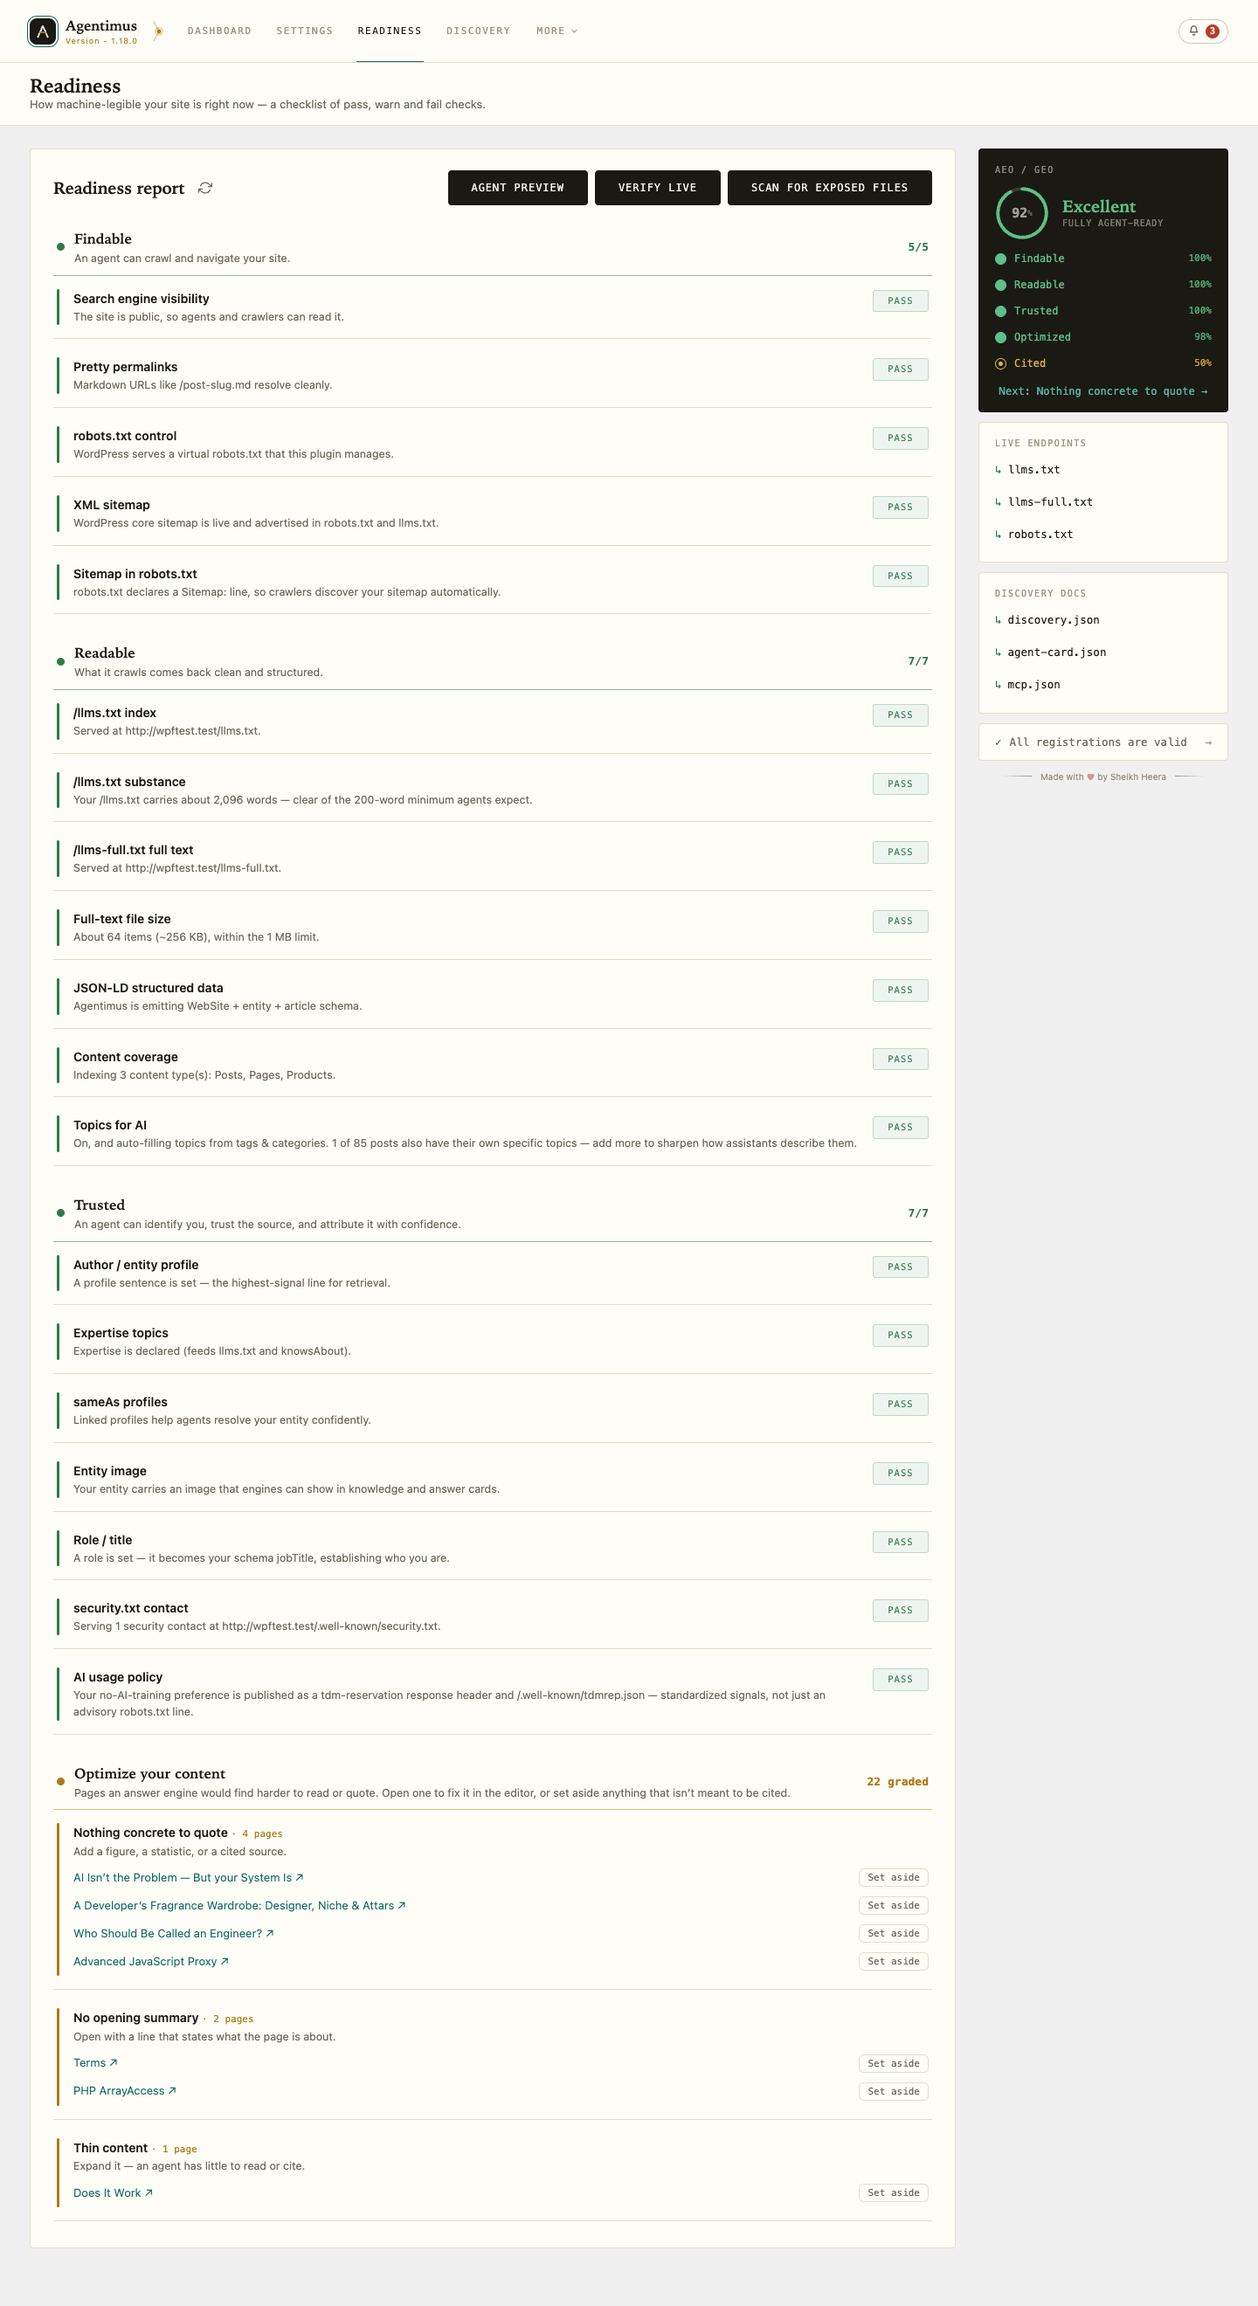
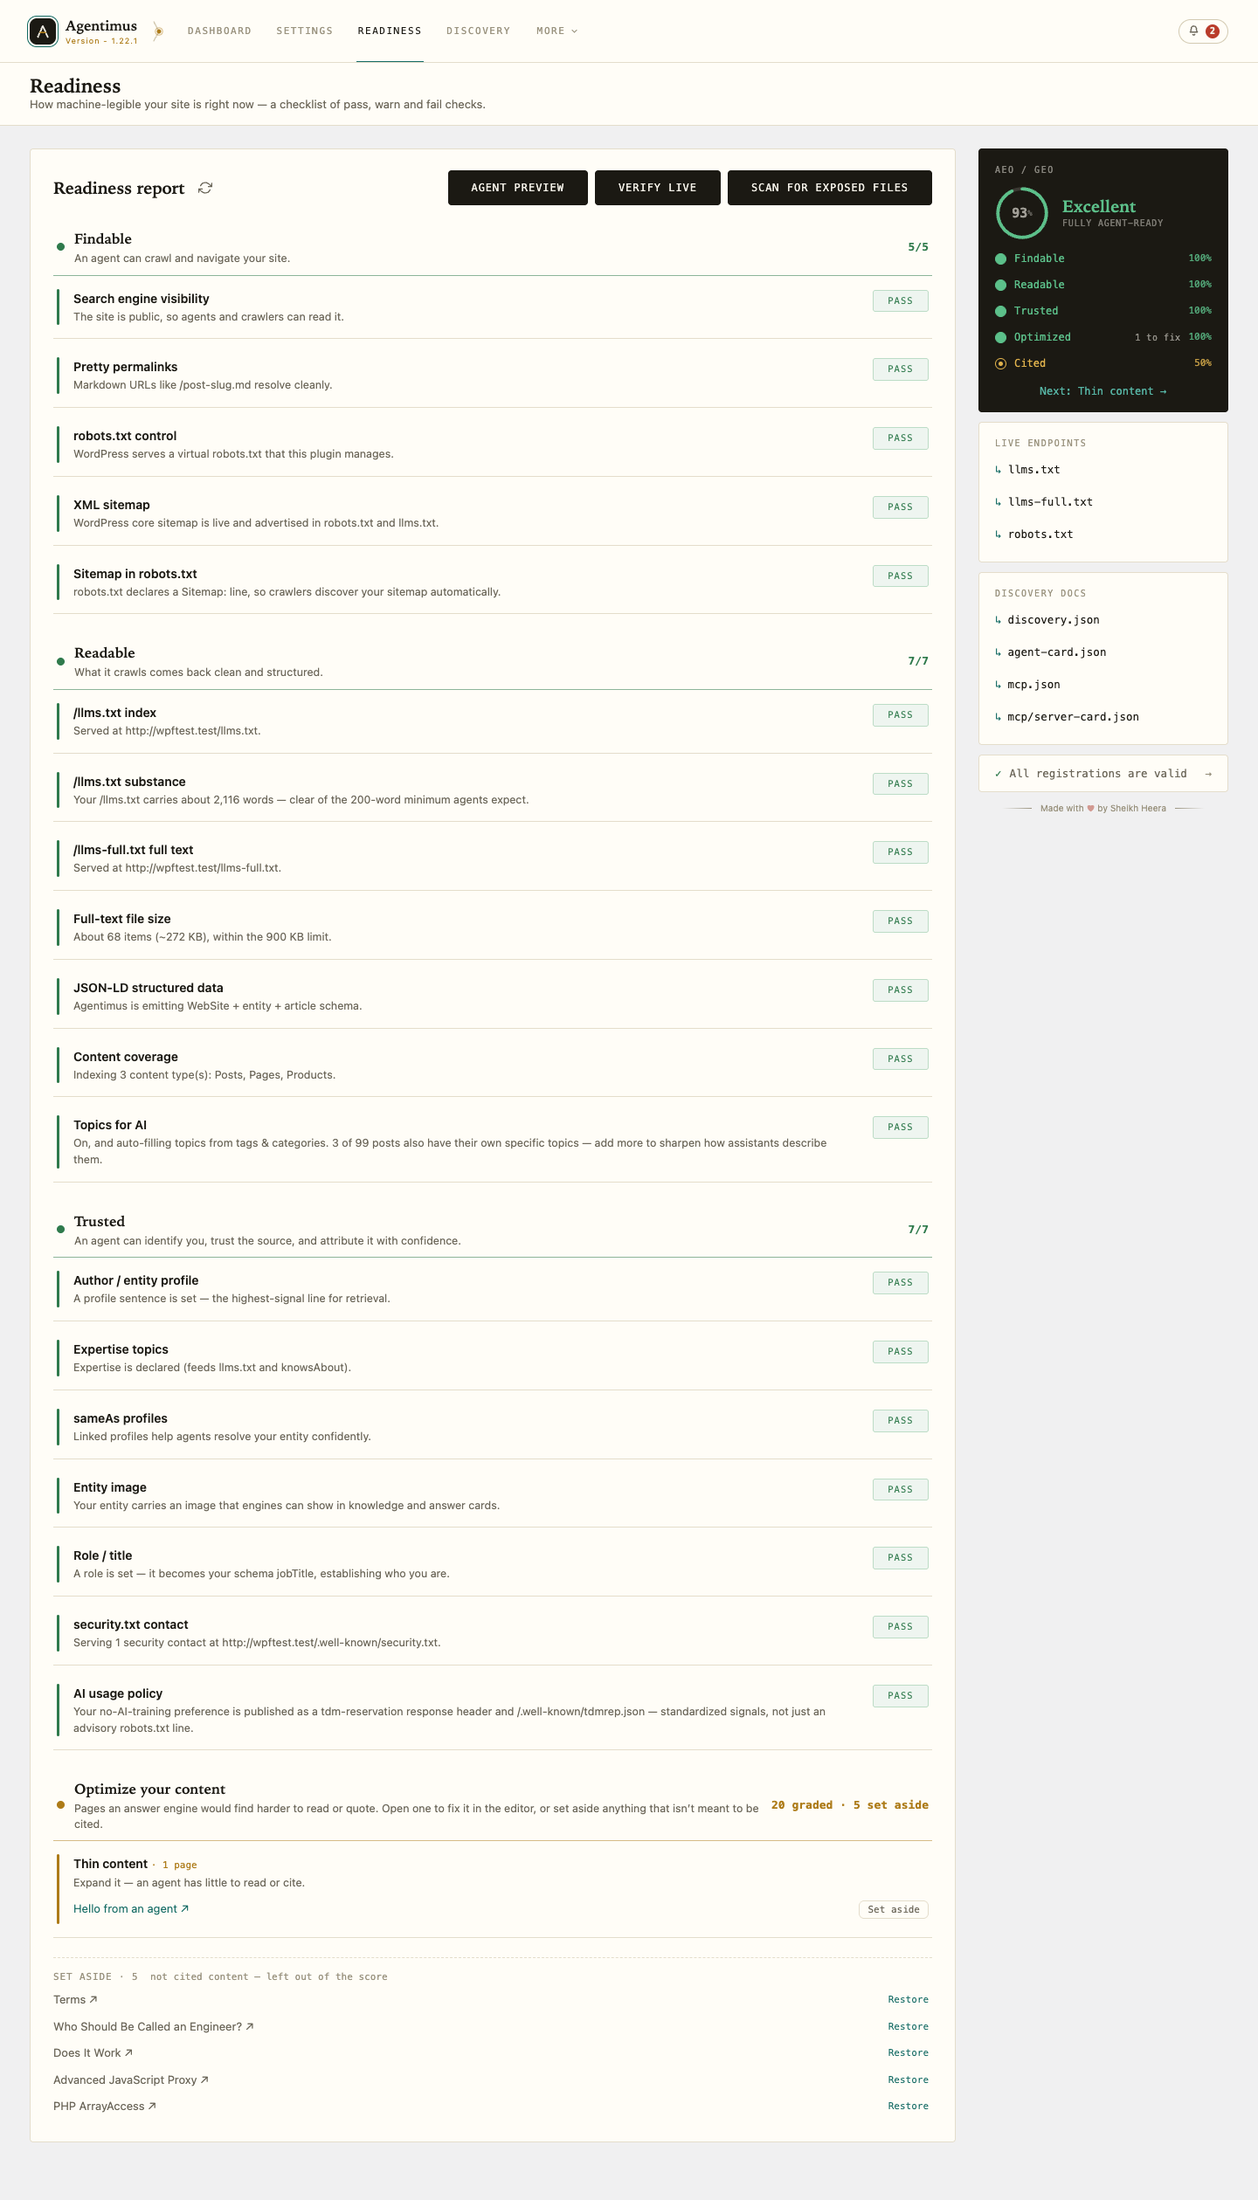
docs: foreground the MCP write tier — Agentimus reads AND operates your site
Repositions every surface so Agentimus reads as two things, not just an
AEO/GEO plugin: (1) make your site legible & citable, and (2) let the AI tools
you already use operate it over MCP — read your data and, opt-in, draft/edit/
publish posts and pages.

- readme.txt: new short description; a two-pillar Description intro; a first-
  class "Operate your site from your AI agent (MCP)" feature section (was
  buried under "forward-looking"); Discovery-hub screenshot caption rewritten.
- About panel: "What it does" lead now leads with both halves, write/MCP given
  equal billing, honest about off-by-default.
- README.md + plugin header: taglines updated to the two-things framing.
- docs site: index + overview two-pillar intros, a "What connected agents can
  do" table linking the MCP server page, and a fixed accuracy contradiction in
  overview.md ("does not let agents change your site" → the opt-in write tier).
- Screenshots refreshed to 1.22.1 with rich data: 1 (dashboard, new tiles +
  sublines), 2 (settings→discovery), 3 (readiness), 4 (discovery hub redesign
  + MCP & tools), 7 (about, new lead).

diff --git a/resources/admin/components/AboutPanel.vue b/resources/admin/components/AboutPanel.vue
@@ -168,11 +168,19 @@ export default {
     <section class="ar-card">
       <h2 class="ar-card__title">What it does</h2>
       <p class="ar-card__lead">
-        Agentimus makes your site legible to AI agents — it publishes the documents they look for, offers
-        your content in machine-readable formats, and adds trust signals so agents can find, read and
-        verify your site — then rolls it all into one AEO/GEO score with the next thing to improve.
-        Everything here is on by default unless marked otherwise; see the live documents
-        on the
+        Agentimus does two things for the age of AI agents. <strong>First, it makes your site legible and
+        citable</strong> — it publishes the documents agents look for, offers your content in machine-readable
+        formats, and adds trust signals, then rolls it all into one AEO/GEO score with the next thing to improve.
+        <strong>Second, it lets the AI tools you already use operate your site over MCP</strong> — flip on the
+        built-in Model Context Protocol server and Claude, Cursor or Codex can read your readiness, traffic and
+        bot data; allow writes with a separate switch and the same agent can draft and edit posts and pages —
+        categories, tags, featured image, AI topics and descriptions and all — and, behind a third switch,
+        publish them. Every write runs as the signed-in user, permission-checked and audited, so nobody opens
+        wp-admin to get a post out.
+      </p>
+      <p class="ar-card__lead">
+        Everything here is on by default unless marked otherwise (the write and MCP features are off until you
+        turn them on); see the live documents on the
         <button type="button" class="ar-linkbtn" @click="$emit('navigate', { tab: 'discovery' })">Discovery</button>
         tab and change any default under
         <button type="button" class="ar-linkbtn" @click="$emit('navigate', { tab: 'settings' })">Settings</button>.

diff --git a/agentimus.php b/agentimus.php
@@ -2,7 +2,7 @@
 /**
  * Plugin Name:       Agentimus
  * Plugin URI:        https://github.com/heera/agentimus
- * Description:       An AI-discovery layer for your site: a /.well-known discovery document, machine-readable pages (llms.txt, markdown, JSON-LD), AI-crawl controls, and a first-party agent-activity log. Lightweight, no SEO bloat.
+ * Description:       Make your site agent-ready (llms.txt, markdown, JSON-LD, a /.well-known discovery document, AI-crawl controls, agent-activity log) AND let the AI tools you use operate it over MCP — read your data and, opt-in, draft/edit/publish posts. Lightweight, no SEO bloat.
  * Version:           1.22.1
  * Requires at least: 6.0
  * Requires PHP:      7.4

diff --git a/docs/index.md b/docs/index.md
@@ -9,7 +9,7 @@ permalink: /
 <div class="ag-hero">
   <p class="ag-hero__eyebrow">WordPress plugin · Documentation</p>
   <h1 class="ag-hero__title">Agentimus documentation</h1>
-  <p class="ag-hero__lead">Make your WordPress site legible to AI assistants and agents — without touching a line of your theme, and without the SEO bloat.</p>
+  <p class="ag-hero__lead">Make your WordPress site legible to AI assistants — and let the AI tools you already use operate it over MCP. No theme edits, no SEO bloat.</p>
   <div class="ag-hero__cta">
     <a class="ag-btn ag-btn--primary" href="{{ '/user-manual.html' | relative_url }}">Read the User Manual</a>
     <a class="ag-btn ag-btn--ghost" href="{{ '/developer.html' | relative_url }}">Developer Reference</a>
@@ -19,11 +19,13 @@ permalink: /
 
 ## What is Agentimus?
 
-Agentimus is a free WordPress plugin that publishes **machine-readable versions of your site** — the formats AI assistants and autonomous agents actually read — so they understand, quote, and cite your content correctly.
+Agentimus is a free WordPress plugin that does two things — both on the AI/agent layer, neither touching what your visitors see.
 
-It runs quietly alongside your theme and your SEO plugin. Nothing changes on your visible pages; everything happens on the AI/agent layer.
+**It makes your site legible and citable to AI.** It publishes **machine-readable versions of your content** — the formats AI assistants and autonomous agents actually read — so they understand, quote, and cite you correctly. And it scores how ready you are: one **AEO/GEO score** across five rungs — Findable, Readable, Trusted, Optimized and Cited — with the single next thing to improve always in view.
 
-And it scores how ready you are: one **AEO/GEO score** across five rungs — Findable, Readable, Trusted, Optimized and Cited — with the single next thing to improve always in view.
+**It lets the AI tools you already use operate your site.** An opt-in **[MCP server]({{ '/user-manual/mcp-server.html' | relative_url }})** ships inside the plugin, so Claude Code, Claude Desktop, Cursor or Codex can connect and ask your site questions — readiness, AI traffic, bot activity, per-page readability. Behind two more opt-in switches, the same connection can **draft, edit and publish** posts and pages — categories, tags, featured image, AI topics and descriptions — and apply Readiness fixes. Every write runs as the signed-in WordPress user, checked against that user's own permissions and recorded under Agent access. All three switches are **off by default**.
+
+It runs quietly alongside your theme and your SEO plugin; everything happens on the AI/agent layer, and nothing changes on the pages your visitors see.
 
 ## Two ways in
 
@@ -51,6 +53,19 @@ The architecture, the WP_Discovery Protocol, the full hooks & filters reference,
 
 {: .note }
 > Agentimus never invents authority for you. It makes what you already have **easy for machines to find and read** — the rest is your content.
+
+## What connected agents can do
+
+Turn on the built-in MCP server and the AI tools you already use — **Claude Code, Claude Desktop, Cursor, Codex** — can connect to your site and work with it directly. It's the second half of the plugin, and every part of it is opt-in and off by default.
+
+| Ability | What a connected agent can do |
+|:--------|:------------------------------|
+| Read your reports | Readiness, AI traffic, the request log, bot identification, per-page readability — live, on request |
+| Draft & edit content | Create or update posts and pages, with categories, tags, featured image, AI topics and description |
+| Publish | Only after a further switch — drafts (or pending) until then |
+| Apply Readiness fixes | Enact a check's own safe, documented remediation |
+
+Every write runs as the **signed-in WordPress user**, within that user's own permissions, and is recorded under **Agent access**. Full setup — the three-switch trust ladder and how to connect each tool — is on the **[MCP server]({{ '/user-manual/mcp-server.html' | relative_url }})** page. (Prefer WordPress's own AI to draft a page's description and topics from inside the editor? That's **[Write with AI]({{ '/user-manual/write-with-ai.html' | relative_url }})**.)
 
 ## Good to know
 

diff --git a/docs/user-manual/overview.md b/docs/user-manual/overview.md
@@ -14,6 +14,8 @@ You do not need to understand AI, web standards, or any of the file formats invo
 
 And it doesn't just publish — it **scores** how ready you are. The dashboard rolls everything into one **AEO/GEO score** (0–100) across five plain rungs — Findable, Readable, Trusted, Optimized and Cited — and always names the single next thing to improve, so you're never guessing where you stand. (AEO is Answer Engine Optimization; GEO is Generative Engine Optimization — the practice of being found, read and cited by AI answer engines.)
 
+There's a second half to Agentimus, pointing the other way. The same AI tools you already use — Claude Code, Claude Desktop, Cursor, Codex — can **connect to your site and operate it**, through an opt-in **MCP server** that ships inside the plugin. Once connected they can read your reports on request; and behind two further opt-in switches they can draft, edit and publish posts and pages, and apply Readiness fixes, for you. Every write runs as the signed-in WordPress user, within that user's own permissions, and is recorded under Agent access — and all three switches are off by default, so nothing here happens until you turn it on. The [MCP server]({% link user-manual/mcp-server.md %}) page covers it in full.
+
 ## The problem it solves
 
 For twenty years, "getting found" online meant getting found by a search engine, which sent a person to your page. That is changing. People increasingly ask an AI assistant a question and read the answer it composes — an answer stitched together from many sites, often without the person ever clicking through.
@@ -102,7 +104,7 @@ Think of it this way: Agentimus makes sure that when your authority *does* bring
 A few other things Agentimus is deliberately not:
 
 - **It is not a security suite.** The optional Exposure controls tidy up what stock WordPress reveals to anonymous crawlers, but Agentimus stays a discovery layer, not a firewall. It describes what your site already makes public; it grants no new access and exposes nothing private.
-- **It does not let agents change your site.** Agentimus advertises tools and capabilities; it does not execute them. Suppressing or removing an item changes what is *advertised*, not what is reachable — your underlying endpoints behave exactly as before, behind their own authentication.
+- **It doesn't let agents change your site until you decide otherwise.** The discovery documents Agentimus publishes only *advertise* your tools and capabilities — advertising executes nothing, and suppressing or removing an item changes what is *advertised*, not what is reachable. Writing is a separate, opt-in tier: the built-in MCP server ships off, and only after you turn it on — then flip two further switches — can a connected agent draft, edit or publish for you, always as the signed-in WordPress user, within that user's own permissions, and recorded under Agent access. See [MCP server]({% link user-manual/mcp-server.md %}).
 - **It is not a magic switch for AI rankings.** The content signals it publishes (JSON-LD, robots, llms.txt, Markdown) are read by AI tools today; the discovery document is forward-looking and prepares you for agents as they adopt these conventions. The plugin works fully whether or not any given agent consumes that document yet.
 
 ## Where to go next
@@ -114,5 +116,6 @@ Now that you know what Agentimus is for, the rest of this manual walks through u
 - **The readiness report** — reading your score and the plain-English checklist of what's still worth improving.
 - **Crawler policy and AI access** — declaring your content-usage signals and deciding which bots are welcome.
 - **The activity log** — seeing which AI crawlers and agents actually fetch your content.
+- **The MCP server** — connecting Claude Code, Claude Desktop, Cursor or Codex to read your reports and, if you opt in, draft, edit and publish for you.
 
 If you take just one action after reading this page, run the setup wizard and add a sentence about who you are — that single line is the most valuable thing an AI assistant reads about your site.

diff --git a/docs/user-manual.md b/docs/user-manual.md
@@ -9,6 +9,8 @@ permalink: /user-manual.html
 
 Everything you need to run Agentimus as a site owner — no code required. These pages walk you from installing the plugin to getting every feature working, in plain language.
 
+Agentimus does two things: it makes your site **legible and citable to AI**, and it lets the **AI tools you already use operate your site** over an opt-in MCP server. Both sides are covered below.
+
 New here? Read them roughly in order:
 
 1. **Overview** — what Agentimus does and why it helps.
@@ -22,11 +24,12 @@ New here? Read them roughly in order:
 9. **Topics for AI** — say what each page is about.
 10. **Write with AI** — let your configured AI draft the descriptions, topics and fixes.
 11. **Agent preview** — see exactly what an agent receives.
-12. **AI access & crawlers** — who may crawl, and how.
-13. **Exposure & hardening** — optional privacy tightening.
-14. **AI Visibility** — track whether AI engines cite you.
-15. **Caching & CDNs** — keeping a page cache out of the way of the AI files.
-16. **Privacy & data** — what leaves your server (almost nothing).
-17. **FAQ** — quick answers to common questions.
+12. **MCP server** — connect Claude Code, Claude Desktop, Cursor or Codex to your site: let them read your reports, and (opt-in) draft, edit and publish content and apply fixes.
+13. **AI access & crawlers** — who may crawl, and how.
+14. **Exposure & hardening** — optional privacy tightening.
+15. **AI Visibility** — track whether AI engines cite you.
+16. **Caching & CDNs** — keeping a page cache out of the way of the AI files.
+17. **Privacy & data** — what leaves your server (almost nothing).
+18. **FAQ** — quick answers to common questions.
 
 Use the sidebar to jump to any page.

diff --git a/docs/user-manual/write-with-ai.md b/docs/user-manual/write-with-ai.md
@@ -10,6 +10,9 @@ nav_order: 10
 
 It's off until you connect an AI provider, so on a site without AI set up you won't see any of it.
 
+{: .note }
+> This is the **in-editor** helper: WordPress's own AI drafts these fields while *you* work in the post editor, and nothing saves until you save the post. Letting an external agent — Claude Code, Cursor, Codex — draft, edit or publish whole posts over a connection is a *different*, separately opt-in feature; see the [MCP server]({% link user-manual/mcp-server.md %}) page, under *Letting agents write*.
+
 ## What you need first
 
 Write with AI uses **WordPress's own AI Client** (WordPress 7.0 and later). You connect a provider once, under **Settings → Connectors** (also called AI Credentials), with your own API key:
@@ -52,6 +55,7 @@ Only the **opening summary** applies in one click, because inserting a short lea
 
 ## Related
 
+- [MCP server]({% link user-manual/mcp-server.md %}) — the *other* way AI writes here: an external agent creating and editing whole posts over a connection (opt-in, off by default).
 - [Structured data]({% link user-manual/structured-data.md %}) — where the AI description feeds.
 - [Topics for AI]({% link user-manual/topics-for-ai.md %}) — the topics the assist drafts.
 - [Readiness]({% link user-manual/readiness.md %}) — the AI Readability checks the "Fix with AI" buttons act on.

diff --git a/README.md b/README.md
@@ -5,9 +5,13 @@
 [![Tested up to](https://img.shields.io/wordpress/plugin/tested/agentimus)](https://wordpress.org/plugins/agentimus/)
 [![License: GPL-2.0-or-later](https://img.shields.io/badge/license-GPL--2.0--or--later-blue)](LICENSE)
 
-Make any WordPress site legible to AI agents and crawlers — `llms.txt`, a full-text
-edition, markdown delivery, JSON-LD, and content-signal robots rules — then score how
-AEO/GEO-ready it is and what to fix next. Lightweight, no SEO bloat, no framework.
+Two things for the age of AI agents. **(1)** Make any WordPress site legible and citable —
+`llms.txt`, a full-text edition, markdown delivery, JSON-LD, content-signal robots rules —
+then score how AEO/GEO-ready it is and what to fix next. **(2)** Let the AI tools you already
+use **operate the site over MCP**: a Model Context Protocol server ships inside the plugin, so
+Claude Code, Claude Desktop, Cursor or Codex can read your readiness/traffic/bot data and —
+behind two more opt-in switches — draft, edit and publish posts and pages, each write running
+as the signed-in user, permission-checked and audited. Lightweight, no SEO bloat, no framework.
 
 **Live on WordPress.org:** <https://wordpress.org/plugins/agentimus/>
 
